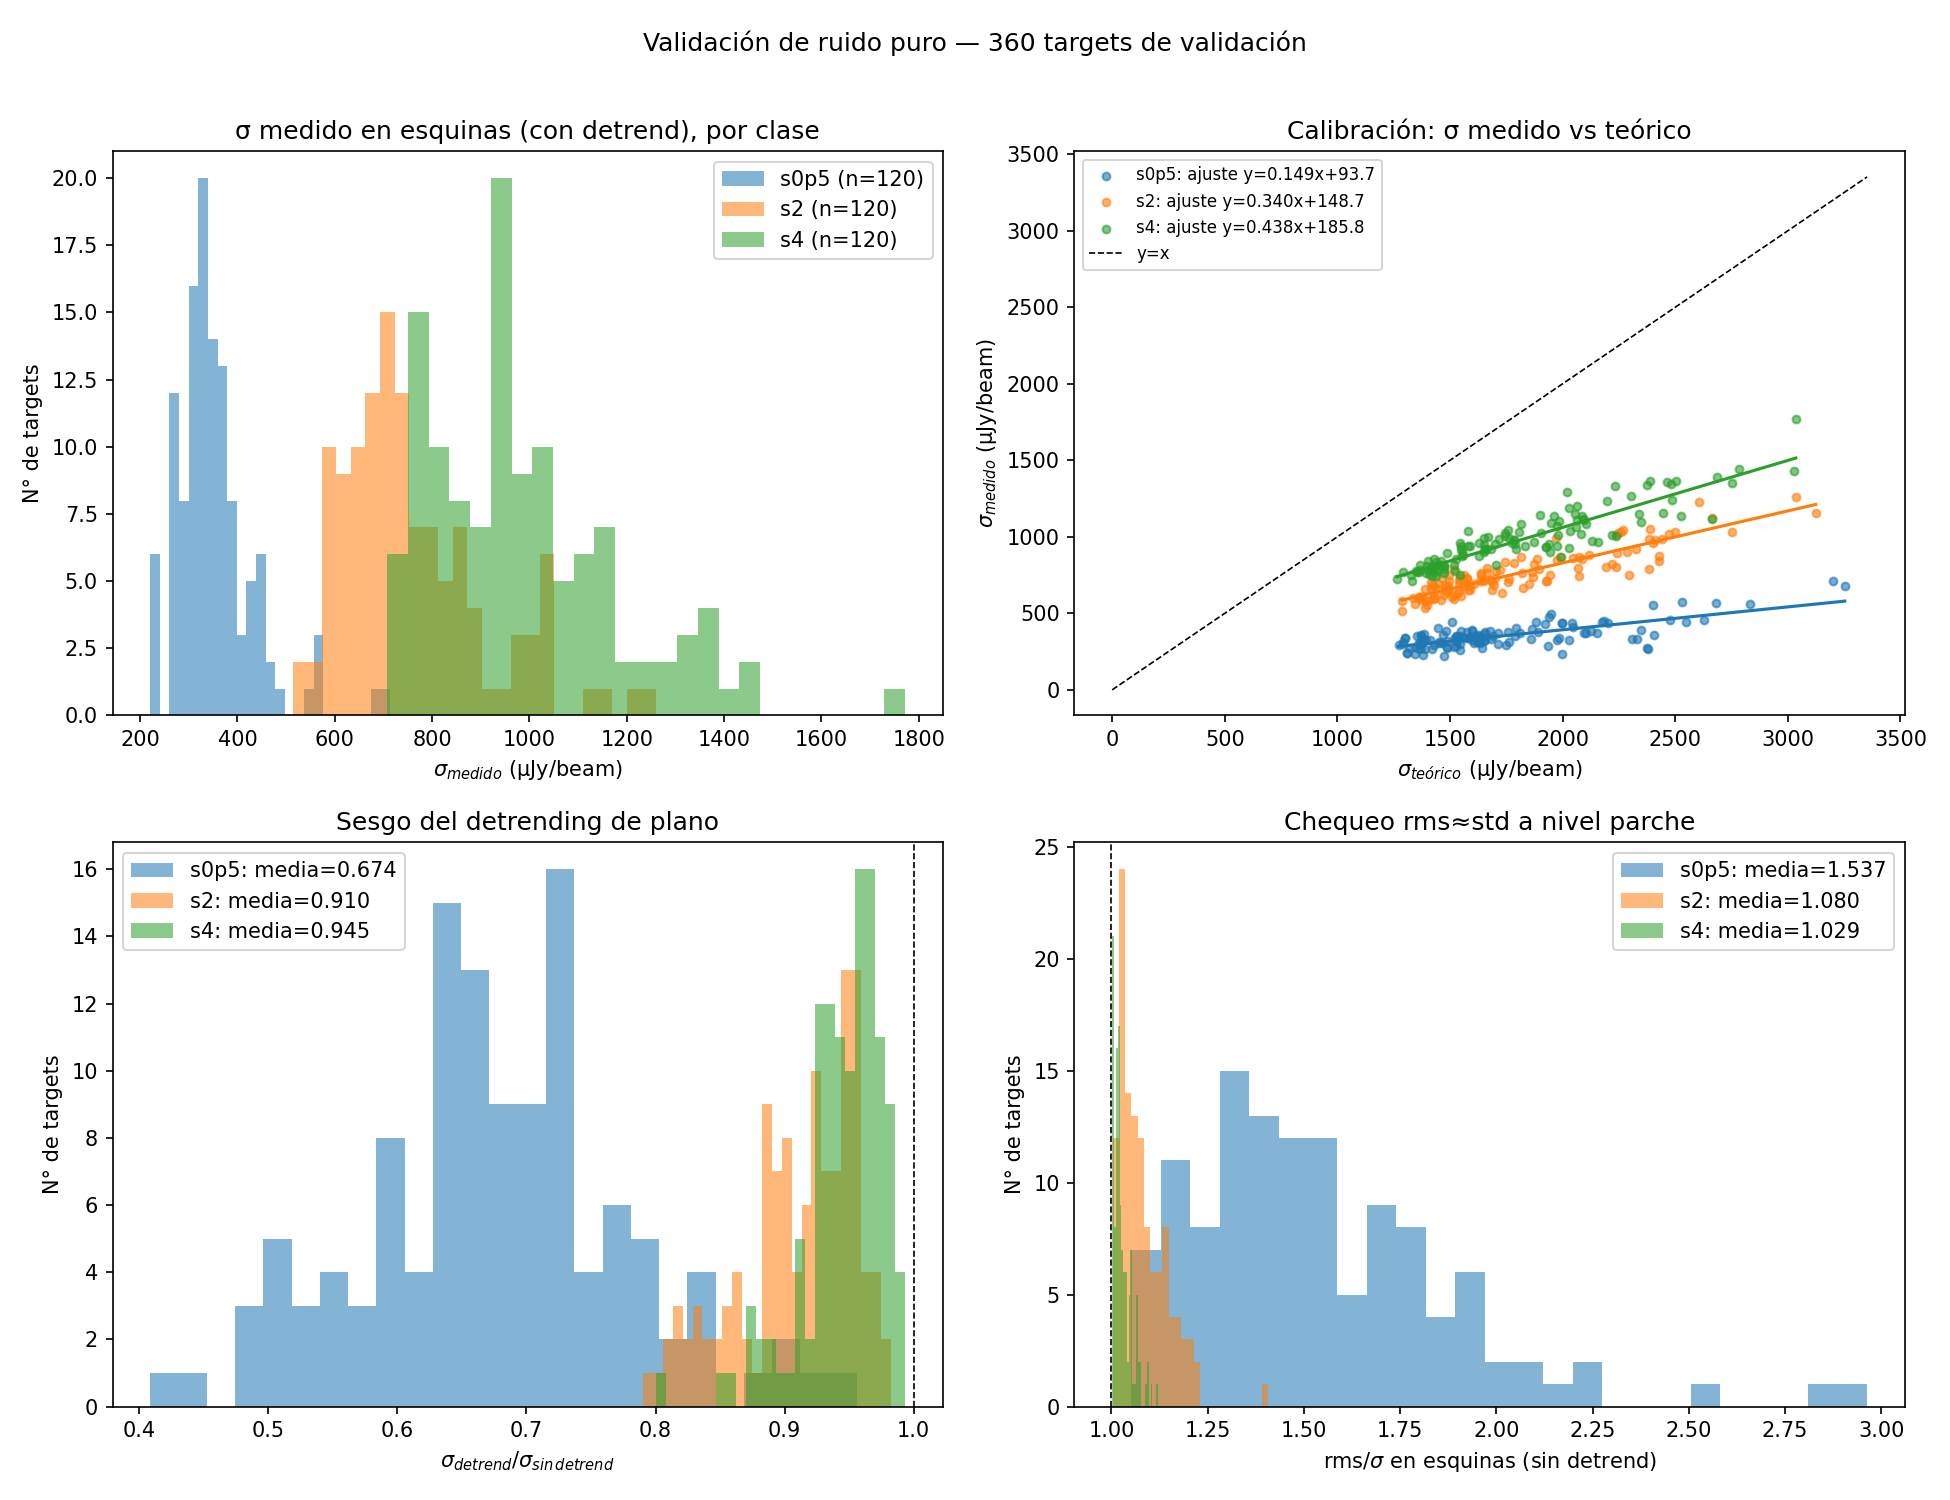
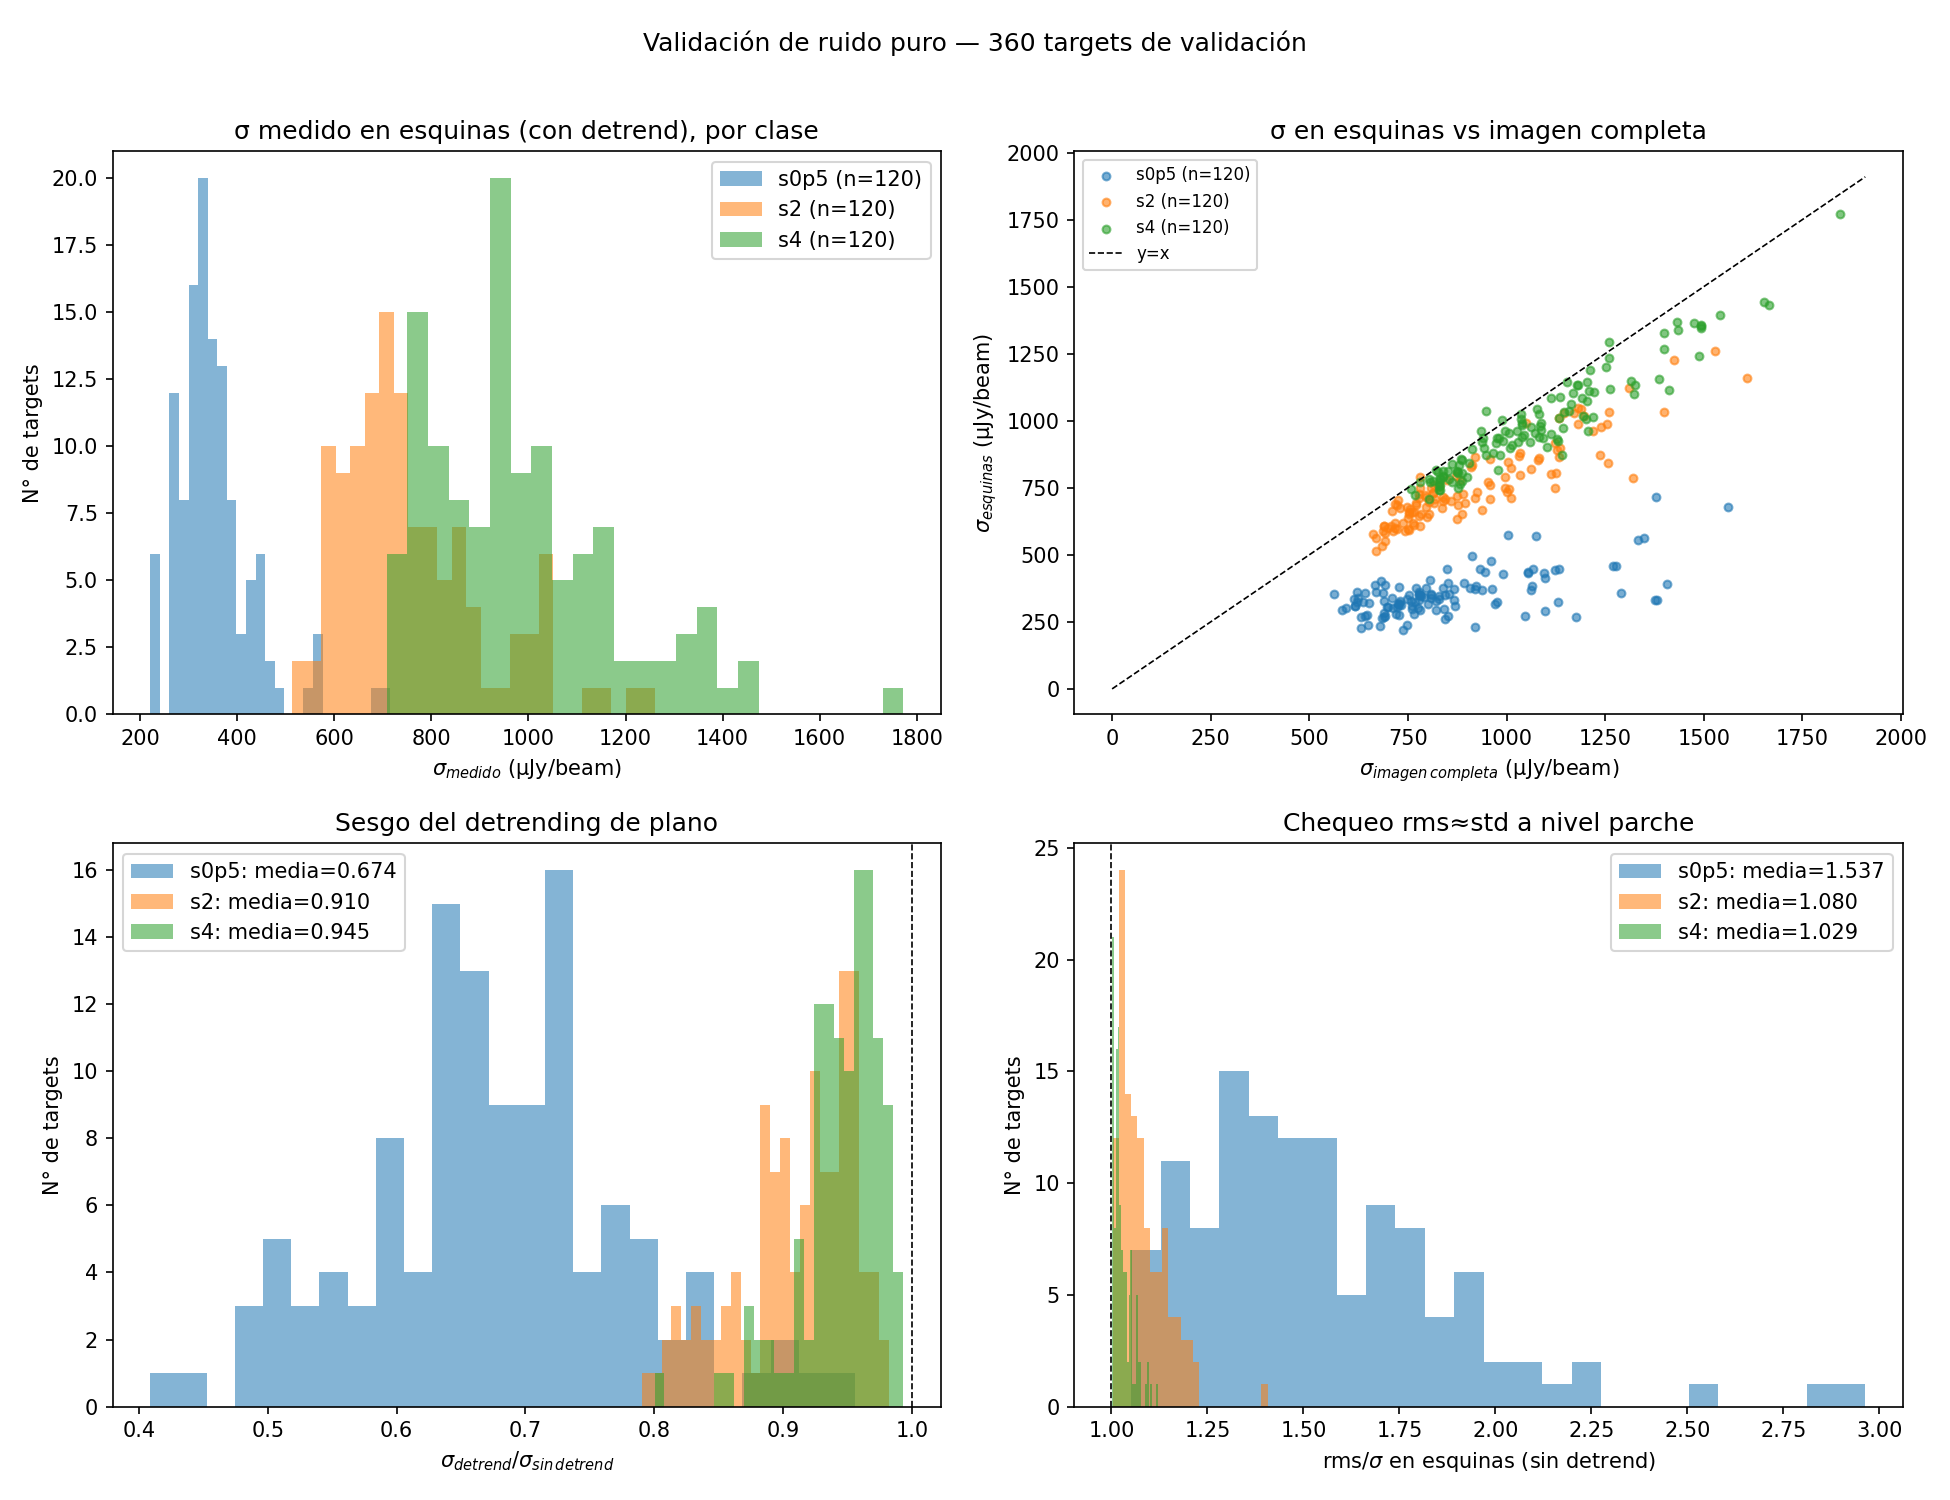
Update noise validation

diff --git a/src/utils/plot_pure_noise_val360.py b/src/utils/plot_pure_noise_val360.py
@@ -5,8 +5,8 @@ Reads results/noise_validation/pure_noise_val360.csv and writes a single
 2x2 figure to results/noise_snr/pure_noise_val360_plots.png:
 
   1. Histogram of sigma_measured (corner estimator, plane detrend) per class.
-  2. sigma_measured vs sigma_theory per class, with the per-class linear
-     fit (calibration factor) annotated in the legend.
+  2. sigma_measured (corners) vs sigma_whole (whole image) per class, with
+     the y=x reference line.
   3. Histogram of sigma_measured / sigma_corners_nodetrend per class
      (detrending bias).
   4. Histogram of rms_corners_nodetrend / sigma_corners_nodetrend per class
@@ -59,25 +59,22 @@ def main():
     ax.set_title("σ medido en esquinas (con detrend), por clase")
     ax.legend()
 
-    # Panel 2: sigma_measured vs sigma_theory con ajuste lineal por clase.
+    # Panel 2: sigma_measured (esquinas) vs sigma_whole (imagen completa).
     ax = axes[0, 1]
     for c in CLASSES:
-        sth = np.array(
-            [float(r["sigma_theory_jy_per_beam"]) for r in by_class[c]]
+        sigw = np.array(
+            [float(r["sigma_whole_jy_per_beam"]) for r in by_class[c]]
         ) * UJY
         sig = np.array(
             [float(r["sigma_measured_jy_per_beam"]) for r in by_class[c]]
         ) * UJY
-        fit = np.polyfit(sth, sig, 1)
-        ax.scatter(sth, sig, s=14, alpha=0.6, color=COLORS[c],
-                   label=f"{c}: ajuste y={fit[0]:.3f}x{'+' if fit[1]>=0 else ''}{fit[1]:.1f}")
-        xs = np.linspace(sth.min(), sth.max(), 100)
-        ax.plot(xs, np.polyval(fit, xs), color=COLORS[c], lw=1.5)
+        ax.scatter(sigw, sig, s=14, alpha=0.6, color=COLORS[c],
+                   label=f"{c} (n={len(sig)})")
     lim = max(ax.get_xlim()[1], ax.get_ylim()[1])
     ax.plot([0, lim], [0, lim], "k--", lw=0.8, label="y=x")
-    ax.set_xlabel(r"$\sigma_{teórico}$ (µJy/beam)")
-    ax.set_ylabel(r"$\sigma_{medido}$ (µJy/beam)")
-    ax.set_title("Calibración: σ medido vs teórico")
+    ax.set_xlabel(r"$\sigma_{imagen\,completa}$ (µJy/beam)")
+    ax.set_ylabel(r"$\sigma_{esquinas}$ (µJy/beam)")
+    ax.set_title("σ en esquinas vs imagen completa")
     ax.legend(fontsize=8)
 
     # Panel 3: ratio detrend/nodetrend por clase.

diff --git a/src/utils/measure_pure_noise_snr_val360.py b/src/utils/measure_pure_noise_snr_val360.py
@@ -99,7 +99,6 @@ FIELDS = [
     "class",
     "target",
     "M",
-    "sigma_theory_jy_per_beam",
     "sigma_measured_jy_per_beam",
     "sigma_corners_nodetrend_jy_per_beam",
     "sigma_whole_jy_per_beam",
@@ -213,7 +212,6 @@ def process_target(task):
             "class": cls,
             "target": target,
             "M": M,
-            "sigma_theory_jy_per_beam": f"{1.0 / np.sqrt(M):.6e}",
             "sigma_measured_jy_per_beam": f"{sigma:.6e}",
             "sigma_corners_nodetrend_jy_per_beam": f"{sigma_nd:.6e}",
             "sigma_whole_jy_per_beam": f"{sigma_whole:.6e}",
@@ -295,13 +293,11 @@ def write_summary(rows, summary_path, csv_path):
         rmsc = [float(r["rms_corners_jy_per_beam"]) for r in sub]
         rmsnd = [float(r["rms_corners_nodetrend_jy_per_beam"]) for r in sub]
         rmsw = [float(r["rms_whole_jy_per_beam"]) for r in sub]
-        sigth = [float(r["sigma_theory_jy_per_beam"]) for r in sub]
         m_sig, s_sig = mean_std(sig)
         ratio_dt_nd = [a / b for a, b in zip(sig, signd)]
         ratio_cw = [a / b for a, b in zip(signd, sigw)]
         ratio_rms_std_patch = [a / b for a, b in zip(rmsnd, signd)]
         ratio_rms_std_whole = [a / b for a, b in zip(rmsw, sigw)]
-        calib = [a / b for a, b in zip(sig, sigth)]
 
         def fmt(vals):
             return f"{np.mean(vals):.4f} +/- {np.std(vals):.4f}"
@@ -313,7 +309,6 @@ def write_summary(rows, summary_path, csv_path):
             f"  corners/whole (nodetrend):   {fmt(ratio_cw)}",
             f"  rms/std patch (nodetrend):   {fmt(ratio_rms_std_patch)}",
             f"  rms/std whole image:         {fmt(ratio_rms_std_whole)}",
-            f"  calibration meas/theory:     {fmt(calib)}",
             "",
         ]
     text = "\n".join(lines)
